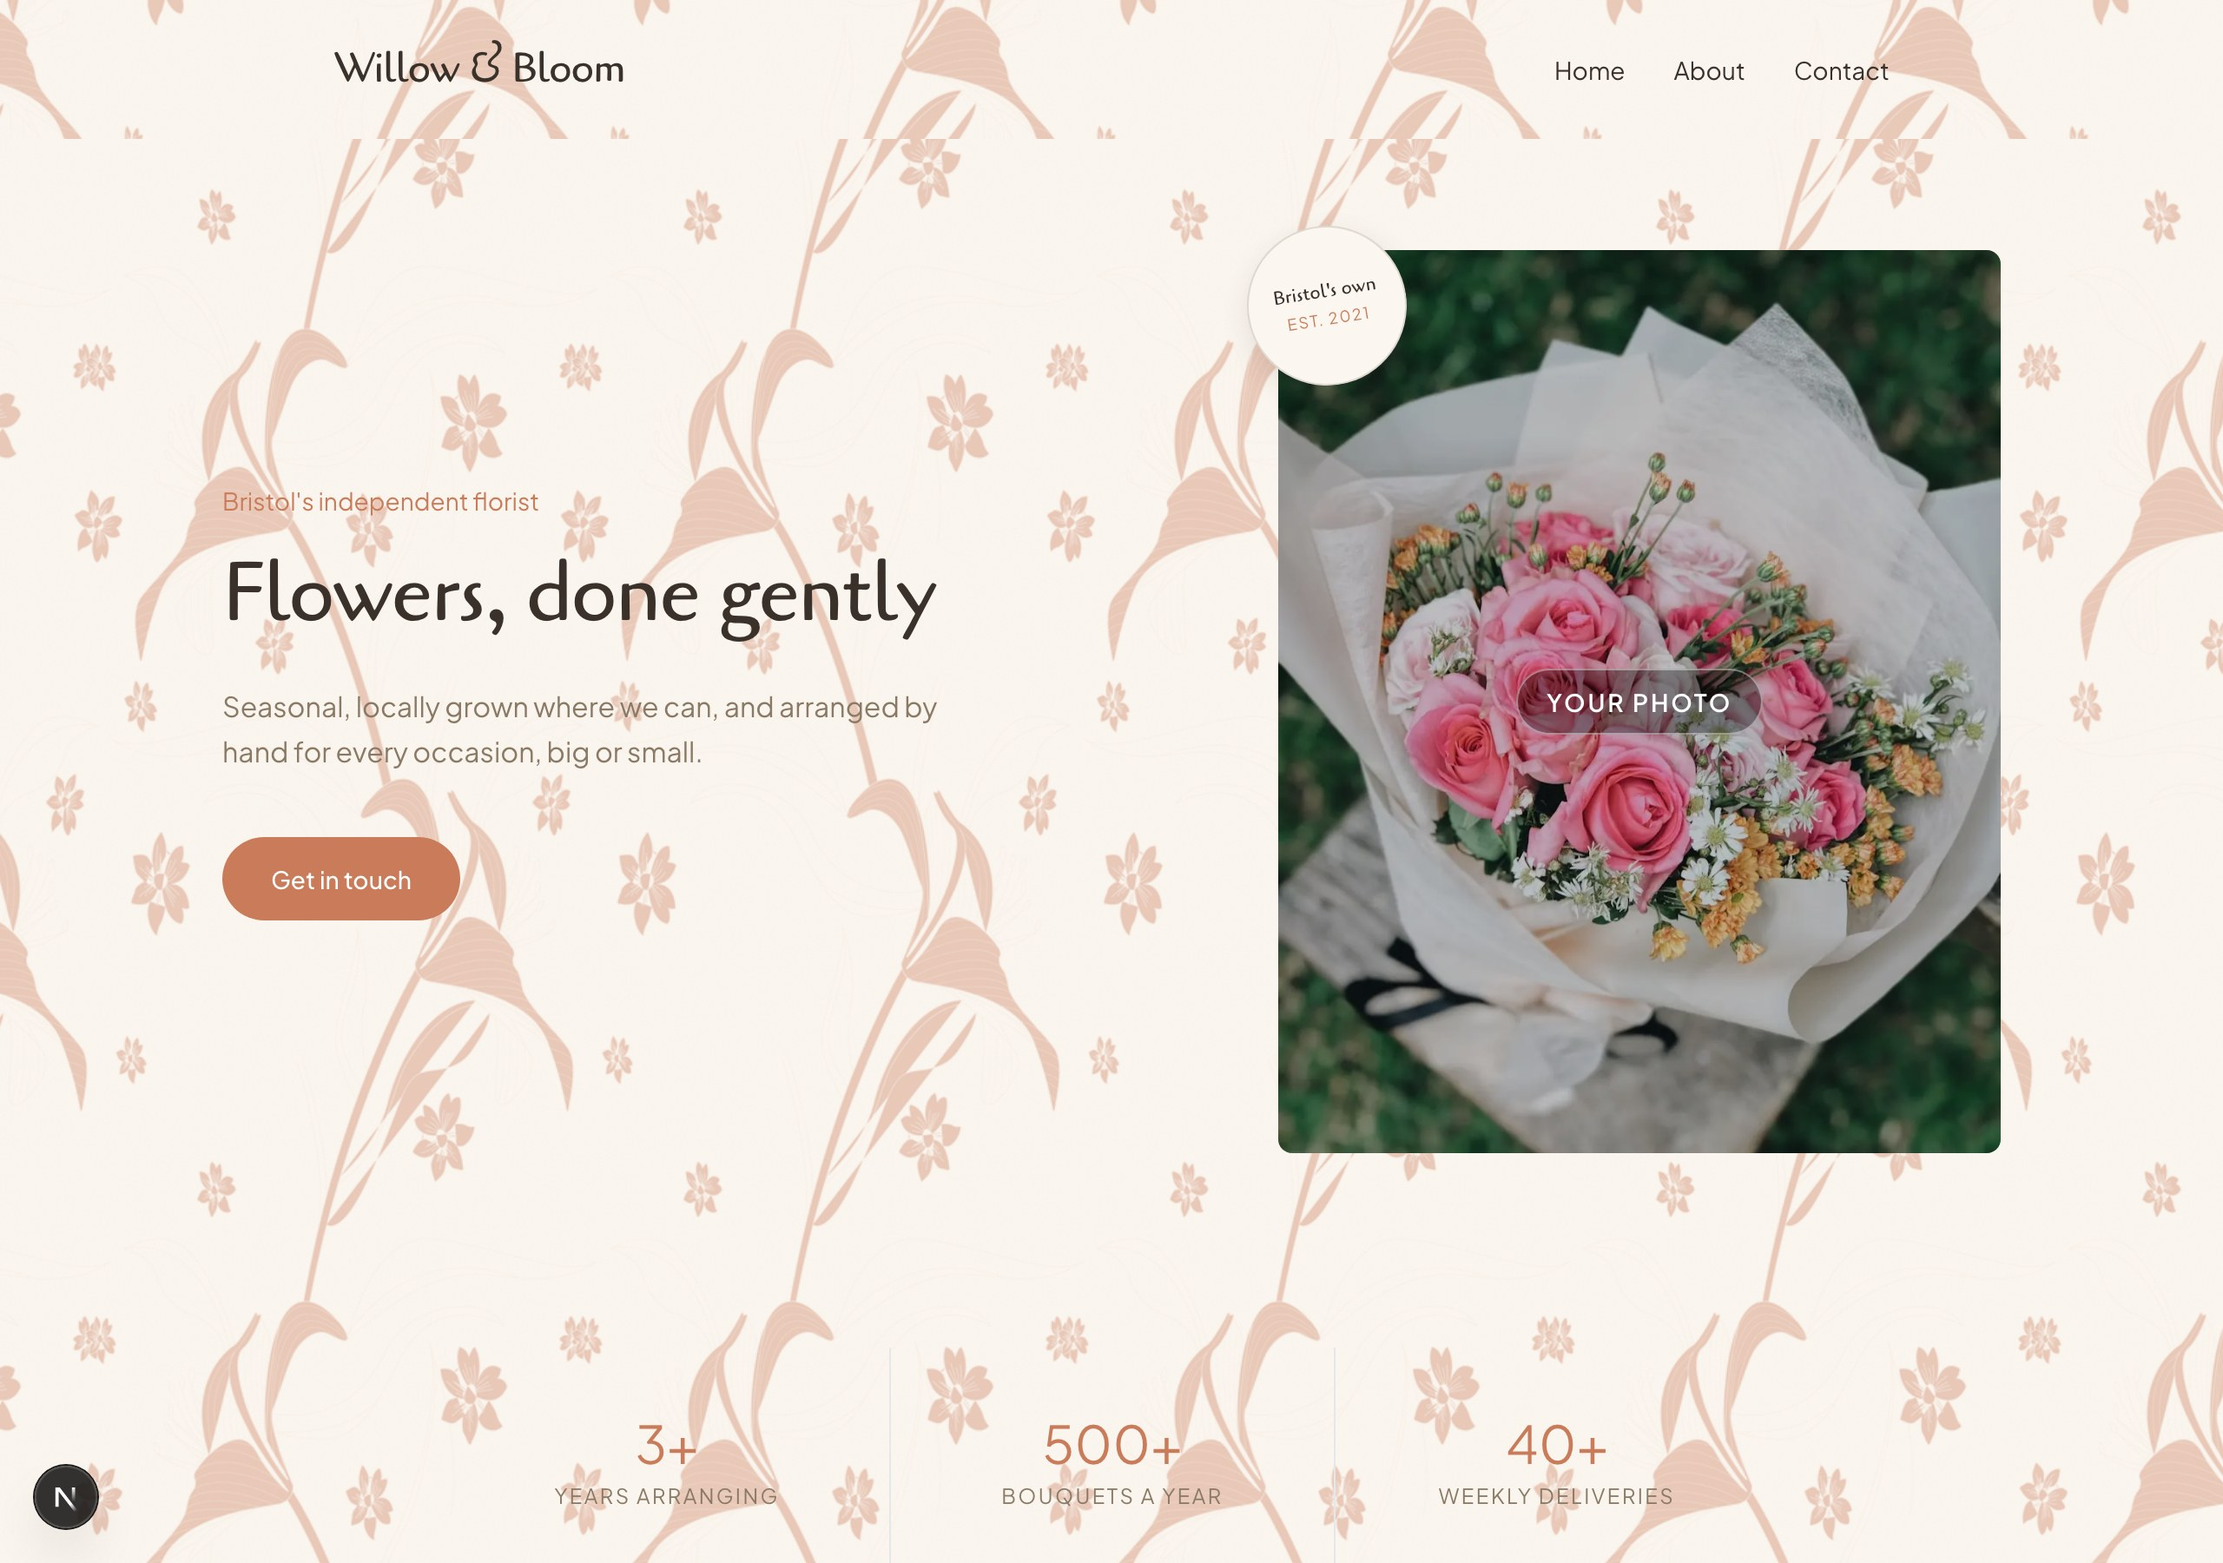
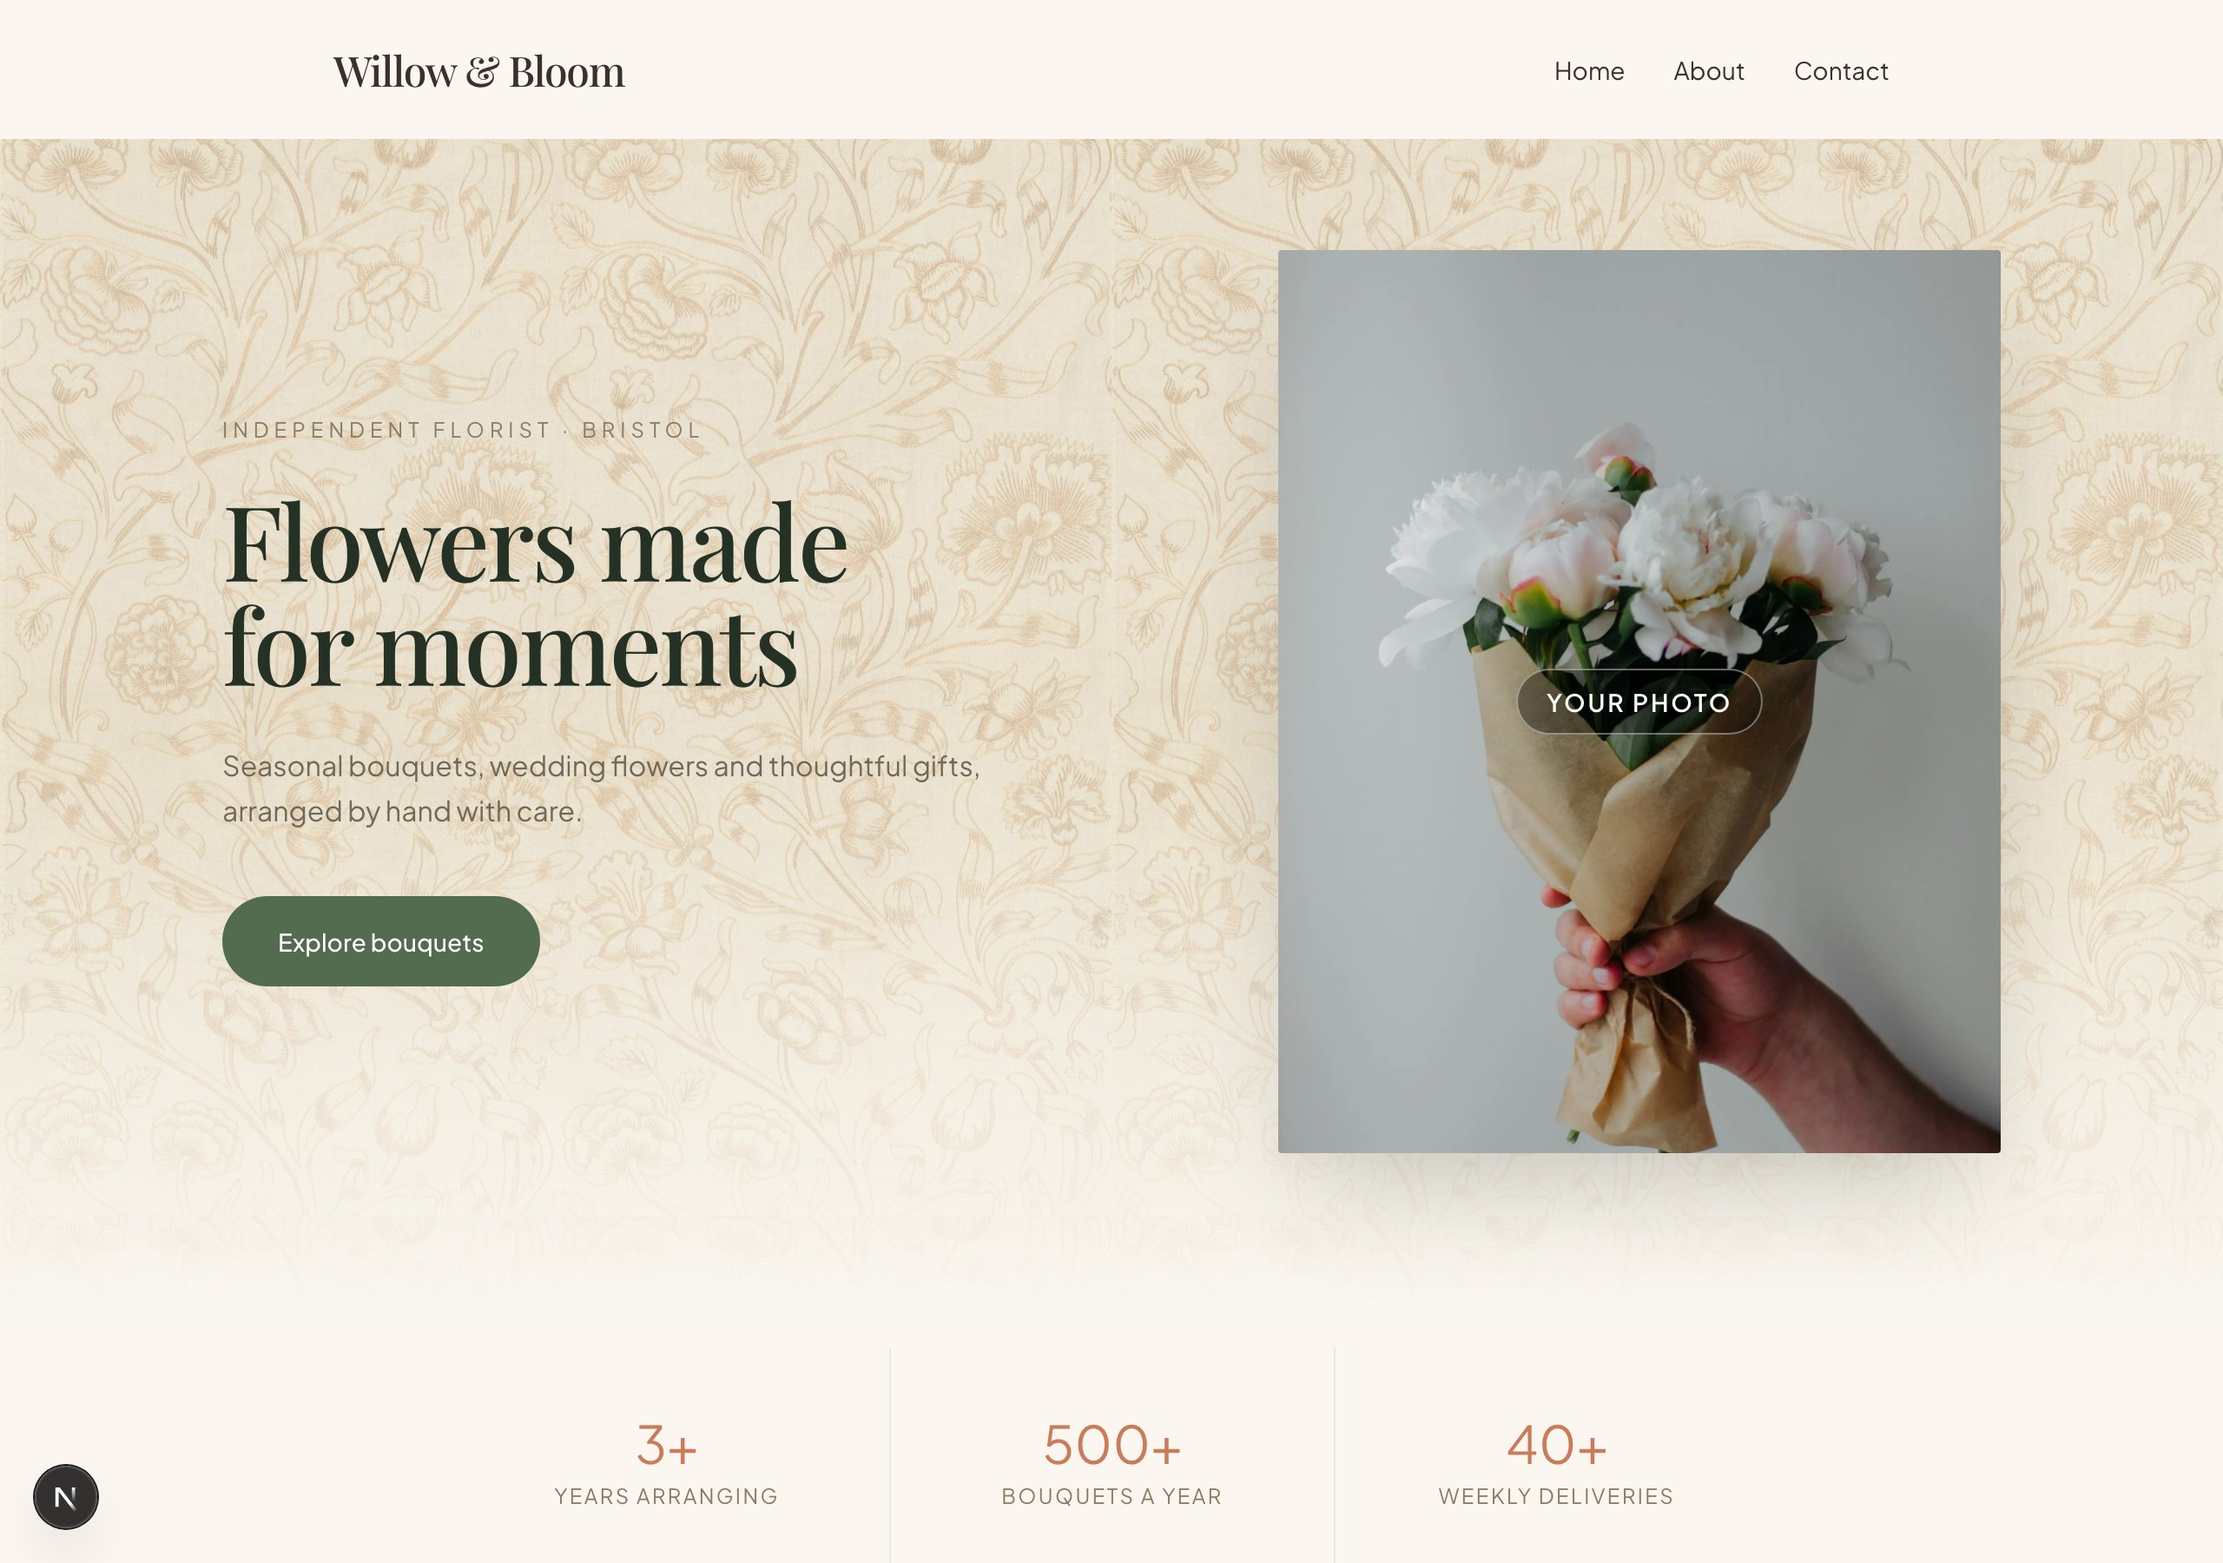
Willow: full hero redesign with sourced pattern, Playfair font, new photo
- Replace the recolored/tiled pattern experiment with a single properly
  sourced pattern: an 1894 Liberty & Co./Wardle & Co. textile design
  (public domain, Art Institute of Chicago), used only in the hero and
  faded into the cream toward the bottom rather than tiled everywhere
- Switch heading font from Cagliostro to Playfair Display
- Replace the hero/CTA placeholder photo (saturated pink bouquet on
  grass) with a muted, editorial peonies-in-kraft-paper shot that
  actually suits the new sage/terracotta/cream palette
- Drop the rotated stamp badge and decorative SVG blob behind the hero
  photo, and the pattern-everywhere texture module — simpler, cleaner
  composition instead of template clutter
- Regenerate the /starter picker thumbnail to match

diff --git a/app/starter/preview-2/page.tsx b/app/starter/preview-2/page.tsx
@@ -6,7 +6,6 @@ import { motion, useScroll, useTransform } from 'framer-motion'
 import PhotoPlaceholder from '../PhotoPlaceholder'
 import Reveal, { staggerGrid, gridItem, EASE } from '../_shared/Reveal'
 import StatCounter from '../_shared/StatCounter'
-import FloatingPetals from './FloatingPetals'
 
 const offerings = [
   {
@@ -56,10 +55,6 @@ const heroItem = { hidden: { opacity: 0, y: 20 }, visible: { opacity: 1, y: 0, t
 export default function Preview2Home() {
   const offeringsRef = useRef<HTMLElement>(null)
   const { scrollYProgress: offeringsProgress } = useScroll({ target: offeringsRef, offset: ['start end', 'end start'] })
-  // A slow-moving backdrop layer plus two faster blobs, moving at different
-  // rates as the section scrolls past, is what actually reads as "parallax"
-  // rather than just a floating decoration.
-  const patternY = useTransform(offeringsProgress, [0, 1], ['-8%', '8%'])
   const blobAY = useTransform(offeringsProgress, [0, 1], ['-45%', '45%'])
   const blobBY = useTransform(offeringsProgress, [0, 1], ['50%', '-50%'])
   const blobRotate = useTransform(offeringsProgress, [0, 1], [0, 40])
@@ -67,88 +62,70 @@ export default function Preview2Home() {
 
   return (
     <>
-      {/* Hero */}
-      <section className="relative px-6 pt-16 pb-24 overflow-hidden">
-        <FloatingPetals />
+      {/* Hero — the one place the botanical pattern appears, faded into the
+          cream toward the bottom edge so it reads as a wallpapered nook
+          rather than a wallpapered page. */}
+      <section className="relative px-6 pt-16 pb-24 overflow-hidden" style={{ background: '#FAF7F1' }}>
+        <div
+          aria-hidden
+          className="absolute inset-0 pointer-events-none"
+          style={{
+            backgroundImage: "url('/images/starter/willow-hero-pattern.jpg')",
+            backgroundSize: '640px 620px',
+            backgroundRepeat: 'repeat',
+            mixBlendMode: 'multiply',
+            opacity: 0.55,
+            maskImage: 'linear-gradient(to bottom, black 55%, transparent 100%)',
+            WebkitMaskImage: 'linear-gradient(to bottom, black 55%, transparent 100%)',
+          }}
+        />
+
         <div className="relative max-w-5xl mx-auto flex flex-col md:flex-row gap-14 md:gap-16 items-center">
           <motion.div variants={heroContainer} initial="hidden" animate="visible" className="flex-1 text-center md:text-left order-2 md:order-1">
-            <motion.p variants={heroItem} className="text-sm mb-5" style={{ color: '#C97B5A' }}>Bristol&apos;s independent florist</motion.p>
+            <motion.p variants={heroItem} className="text-xs uppercase tracking-[0.25em] mb-6" style={{ color: '#8A7A65' }}>
+              Independent florist · Bristol
+            </motion.p>
             <motion.h1
               variants={heroItem}
-              style={{ fontFamily: 'var(--font-willow-display)', color: '#3A322A' }}
-              className="text-4xl md:text-5xl leading-[1.1] tracking-tight text-balance"
+              style={{ fontFamily: 'var(--font-willow-display)', color: '#263126' }}
+              className="text-5xl md:text-6xl leading-[1.05] tracking-tight text-balance"
             >
-              Flowers, done gently
+              Flowers made
+              <br />
+              for moments
             </motion.h1>
-            <motion.p variants={heroItem} className="mt-7 text-base max-w-md mx-auto md:mx-0 leading-relaxed" style={{ color: '#8A7A65' }}>
-              Seasonal, locally grown where we can, and arranged by hand for every occasion, big or small.
+            <motion.p variants={heroItem} className="mt-7 text-base max-w-md mx-auto md:mx-0 leading-relaxed" style={{ color: '#716858' }}>
+              Seasonal bouquets, wedding flowers and thoughtful gifts, arranged by hand with care.
             </motion.p>
             <motion.div variants={heroItem}>
               <Link
                 href="/starter/preview-2/contact"
-                className="inline-flex items-center gap-2 mt-9 px-7 py-3.5 text-sm font-medium rounded-full transition-all hover:opacity-90 hover:scale-[1.03] active:scale-95"
-                style={{ background: '#C97B5A', color: '#FFFFFF' }}
+                className="inline-flex items-center gap-2 mt-9 px-8 py-4 text-sm font-medium rounded-full transition-all hover:opacity-90 hover:scale-[1.03] active:scale-95"
+                style={{ background: '#536B4F', color: '#FFFFFF' }}
               >
-                Get in touch
+                Explore bouquets
               </Link>
             </motion.div>
           </motion.div>
 
           <motion.div
-            initial={{ opacity: 0, y: 30, rotate: -2 }}
-            animate={{ opacity: 1, y: 0, rotate: 0 }}
+            initial={{ opacity: 0, y: 30 }}
+            animate={{ opacity: 1, y: 0 }}
             transition={{ duration: 0.9, ease: EASE, delay: 0.2 }}
-            className="relative shrink-0 w-full max-w-sm mx-auto md:w-[26rem] md:max-w-none md:mx-0 order-1 md:order-2"
+            className="relative shrink-0 w-full max-w-sm mx-auto md:w-[26rem] md:max-w-none order-1 md:order-2"
           >
-            {/* Organic blob backdrop instead of a flat offset rectangle */}
-            <svg
-              className="absolute pointer-events-none"
-              style={{ top: '-8%', left: '-10%', width: '120%', height: '120%', zIndex: 0 }}
-              viewBox="0 0 200 200"
-              preserveAspectRatio="none"
+            <div
+              className="relative w-full aspect-[4/5] rounded-sm overflow-hidden group"
+              style={{ boxShadow: '0 30px 60px -20px rgba(38,49,38,0.25)' }}
             >
-              <path
-                fill="#C97B5A"
-                opacity="0.22"
-                d="M45.8,-58.3C58.7,-49.6,67.9,-34.5,71.4,-18.1C74.9,-1.7,72.7,16,64.5,30.4C56.3,44.8,42.1,55.9,26.2,62.3C10.3,68.7,-7.3,70.4,-23.4,65.7C-39.5,61,-54.1,49.9,-62.6,35.1C-71.1,20.3,-73.5,1.8,-69.6,-14.6C-65.7,-31,-55.5,-45.3,-42.1,-54.1C-28.7,-62.9,-14.3,-66.2,1.6,-68.4C17.6,-70.6,33,-67,45.8,-58.3Z"
-                transform="translate(100 100)"
-              />
-            </svg>
-
-            <div className="relative w-full aspect-[4/5] rounded-lg overflow-hidden group" style={{ zIndex: 1 }}>
               <PhotoPlaceholder
                 label="A tall photo of your work, shop, or flowers goes here"
                 src="/images/starter/willow-hero.jpg"
                 className="w-full h-full transition-transform duration-700 group-hover:scale-105"
-                darken={0.15}
+                darken={0.08}
                 overlayLabel="Your photo"
               />
             </div>
-
-            {/* Rotated stamp-style badge for a hand-made, personal touch */}
-            <motion.div
-              initial={{ opacity: 0, scale: 0.6, rotate: -30 }}
-              animate={{ opacity: 1, scale: 1, rotate: -9 }}
-              transition={{ duration: 0.6, ease: EASE, delay: 0.7 }}
-              className="absolute flex flex-col items-center justify-center text-center rounded-full"
-              style={{
-                top: '-14px',
-                left: '-18px',
-                width: '92px',
-                height: '92px',
-                background: '#FBF6EF',
-                border: '1px solid rgba(58,50,42,0.15)',
-                zIndex: 2,
-                boxShadow: '0 6px 16px rgba(58,50,42,0.12)',
-              }}
-            >
-              <span style={{ fontFamily: 'var(--font-willow-display)', color: '#3A322A' }} className="text-[11px] leading-tight px-2">
-                Bristol&apos;s own
-              </span>
-              <span className="text-[9px] tracking-widest uppercase mt-0.5" style={{ color: '#C97B5A' }}>
-                Est. 2021
-              </span>
-            </motion.div>
           </motion.div>
         </div>
       </section>
@@ -180,21 +157,6 @@ export default function Preview2Home() {
 
       {/* Offerings: deep contrast block so the page has a real beat, not more cream */}
       <section ref={offeringsRef} className="relative px-6 py-20 overflow-hidden" style={{ background: '#2F3B2C' }}>
-        {/* Three layers moving at different scroll-linked speeds: a faint
-            floral backdrop (slowest), two glow blobs (fastest), and the
-            card grid itself (slight drift) — proper parallax depth rather
-            than one thing floating on top of a flat panel. */}
-        <motion.div
-          aria-hidden
-          className="absolute pointer-events-none"
-          style={{
-            inset: '-10% -10%',
-            backgroundImage: "url('/images/starter/willow-pattern-light.png')",
-            backgroundSize: '900px 900px',
-            backgroundRepeat: 'repeat',
-            y: patternY,
-          }}
-        />
         <motion.div
           aria-hidden
           className="absolute pointer-events-none rounded-full"
@@ -248,7 +210,7 @@ export default function Preview2Home() {
       <section className="px-6 py-24">
         <div className="max-w-5xl mx-auto">
           <Reveal className="text-center mb-14">
-            <h2 style={{ fontFamily: 'var(--font-willow-display)', color: '#3A322A' }} className="text-2xl md:text-3xl">
+            <h2 style={{ fontFamily: 'var(--font-willow-display)', color: '#263126' }} className="text-2xl md:text-3xl">
               Kind words
             </h2>
           </Reveal>
@@ -291,7 +253,7 @@ export default function Preview2Home() {
           <Link
             href="/starter/preview-2/contact"
             className="inline-flex items-center gap-2 mt-8 px-7 py-3.5 text-sm font-medium rounded-full transition-all hover:opacity-90 hover:scale-[1.03] active:scale-95"
-            style={{ background: '#C97B5A', color: '#FFFFFF' }}
+            style={{ background: '#536B4F', color: '#FFFFFF' }}
           >
             Get in touch
           </Link>

diff --git a/app/starter/preview-2/layout.tsx b/app/starter/preview-2/layout.tsx
@@ -1,16 +1,16 @@
 import Link from 'next/link'
-import { Cagliostro } from 'next/font/google'
+import { Playfair_Display } from 'next/font/google'
 import type { Metadata } from 'next'
 import { MotionConfig } from 'framer-motion'
 import PreviewNav from './PreviewNav'
 import PageIntro from '../_shared/PageIntro'
-import { willowTexture } from './texture'
 
-const cagliostro = Cagliostro({
+const playfair = Playfair_Display({
   subsets: ['latin'],
   variable: '--font-willow-display',
   display: 'swap',
-  weight: '400',
+  weight: ['500', '600', '700'],
+  style: ['normal', 'italic'],
 })
 
 export const metadata: Metadata = {
@@ -22,8 +22,8 @@ export default function Preview2Layout({ children }: { children: React.ReactNode
   return (
     <MotionConfig reducedMotion="user">
       <div
-        className={`${cagliostro.variable} min-h-dvh flex flex-col`}
-        style={{ background: '#FBF6EF', color: '#3A322A', ...willowTexture }}
+        className={`${playfair.variable} min-h-dvh flex flex-col`}
+        style={{ background: '#FBF6EF', color: '#3A322A' }}
       >
         <PageIntro bg="#FBF6EF" textColor="#3A322A" accentColor="#C97B5A" label="Willow & Bloom" />
 
@@ -34,7 +34,7 @@ export default function Preview2Layout({ children }: { children: React.ReactNode
 
         <main className="flex-1">{children}</main>
 
-        <footer className="px-6 py-10 mt-10" style={{ background: '#F1E7D8', ...willowTexture }}>
+        <footer className="px-6 py-10 mt-10" style={{ background: '#F1E7D8' }}>
           <div className="max-w-4xl mx-auto flex flex-col sm:flex-row items-center justify-between gap-3">
             <p className="text-sm" style={{ color: '#8A7A65' }}>Willow &amp; Bloom · Est. 2021</p>
             <p className="text-xs" style={{ color: '#B5A78D' }}>Example content for preview purposes only</p>

diff --git a/app/starter/preview-2/PreviewNav.tsx b/app/starter/preview-2/PreviewNav.tsx
@@ -2,7 +2,6 @@
 
 import Link from 'next/link'
 import { useEffect, useState } from 'react'
-import { willowTexture } from './texture'
 
 const navLinks = [
   { href: '/starter/preview-2', label: 'Home' },
@@ -24,7 +23,7 @@ export default function PreviewNav() {
   return (
     <header
       className="px-6 py-6 transition-shadow duration-300"
-      style={{ background: '#FBF6EF', ...willowTexture, boxShadow: scrolled ? '0 4px 20px rgba(58,50,42,0.06)' : 'none' }}
+      style={{ background: '#FBF6EF', boxShadow: scrolled ? '0 4px 20px rgba(58,50,42,0.06)' : 'none' }}
     >
       <div className="max-w-4xl mx-auto flex items-center justify-between">
         <Link
